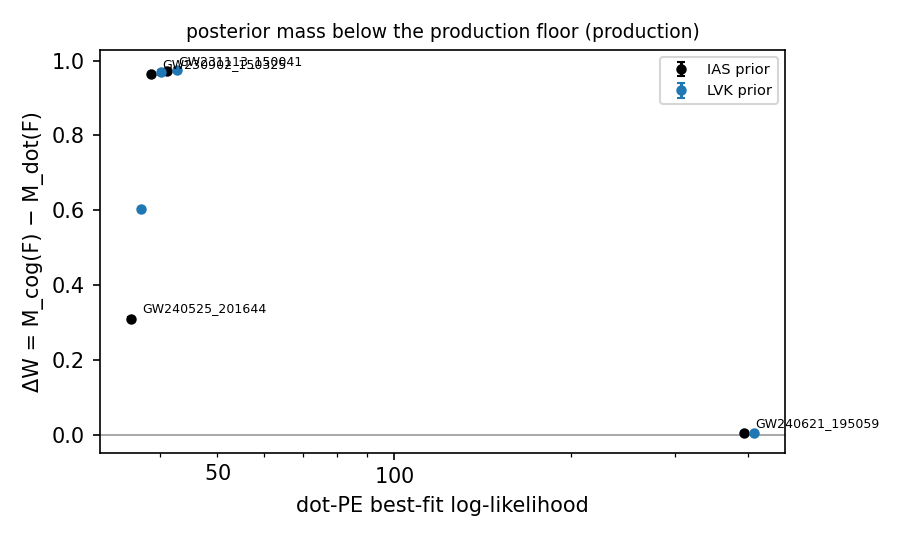
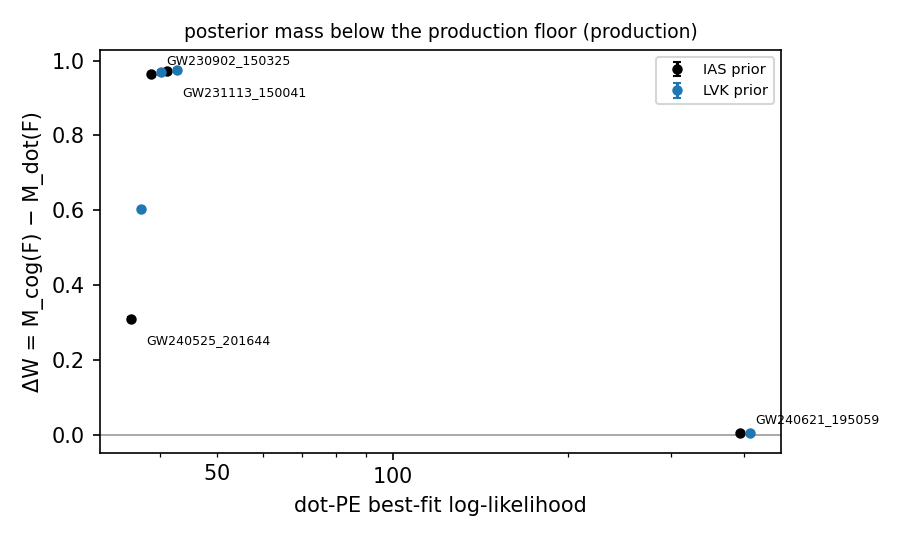
research: E0 report revisions, E2 report draft, E4 code
Claude-Session: https://claude.ai/code/session_015Ha8CowgXaDTZuUXirm2SN

diff --git a/research/row-limit/test_mass_below_floor.py b/research/row-limit/test_mass_below_floor.py
@@ -133,9 +133,9 @@ def figures(df, hist, tag) -> None:
     for prior, c, dx in (("IAS", "k", 0.98), ("LVK", "#1f77b4", 1.02)):
         ax.errorbar(df.dot_best * dx, df[f"dW_{prior}"], df[f"dW_err_{prior}"], fmt="o",
                     color=c, ms=4, capsize=2, label=f"{prior} prior")
-    for r in df.itertuples():
-        ax.annotate(r.event, (r.dot_best, r.dW_IAS), fontsize=6, xytext=(3, 3),
-                    textcoords="offset points")
+    for n, r in enumerate(df.itertuples()):
+        ax.annotate(r.event, (r.dot_best, r.dW_IAS), fontsize=6,
+                    xytext=(5, -12 if n % 2 else 5), textcoords="offset points")
     ax.axhline(0, color="0.6", lw=0.8)
     ax.set_xscale("log")
     ax.set_xlabel("dot-PE best-fit log-likelihood")

diff --git a/research/row-limit/2026-11-22_problem.md b/research/row-limit/2026-11-22_problem.md
@@ -1,58 +1,76 @@
 # Posterior mass removed by dot-PE's row limit
 
 This report tests whether dot-PE's row limit removes posterior mass that an independent sampler,
-cogwheel, finds. dot-PE keeps at most `size_limit` (intrinsic, extrinsic, phase) rows, ranked by
-their distance-maximized log-likelihood. When that limit binds, the reported posterior is cut off
-below the lowest kept value, and at low signal-to-noise ratio that cutoff can lie inside the
-bulk of the posterior.
+cogwheel, finds. dot-PE keeps at most a fixed number of (intrinsic, extrinsic, phase)
+combinations, ranked by their distance-maximized log-likelihood. When that limit binds, the
+reported posterior is cut off below the lowest kept value, and at low signal-to-noise ratio that
+cutoff can lie inside the bulk of the posterior.
 
 Code and data: the test reads production outputs only. The dot-PE runs were made with dot-PE
-2403731 (GW240525_201644 `run_2`) and the commits listed in o4b-pe-paper
-`docs/pe/dot_pe_versions.csv` and o4a-pe-paper `docs/pe/dot_pe_versions.csv`. The test script
-ran on branch `research` (dcfaad4). It supersedes no earlier report; the measurement it repeats
-on four events was first made in
+2403731 (GW240525_201644 `run_2`, its `timing.json`) and the commits listed in o4b-pe-paper and
+o4a-pe-paper `docs/pe/dot_pe_versions.csv`. The test script ran on branch `research` at commit f550319. It
+supersedes no earlier report; its measure repeats, on four events, the one of
 https://github.com/JonathanMushkin/o4b-pe-paper/blob/master/dev/row_limit_check/below_floor.md
+(cited below as "the o4b-pe-paper check").
 
 ## Question and answer
 
 The question: for each test event, what is ΔW, the posterior mass that cogwheel places at a
-distance-maximized log-likelihood below dot-PE's production floor, minus the mass dot-PE places
-there?
+distance-maximized log-likelihood below dot-PE's production floor, minus the posterior mass
+dot-PE places there (all three defined in Setup)?
 
-The answer: under the IAS prior ΔW is 0.004 for the high-SNR control and 0.31, 0.96 and 0.97
-for the three low-SNR test events, each with a noise below 0.005.
+The answer: under the IAS prior (dot-PE's production prior) ΔW is 0.004 for the control, an event
+whose floor lies below nearly all of cogwheel's posterior, and 0.31, 0.96 and 0.97 for the three
+low signal-to-noise-ratio (SNR) test events, each with a binomial standard error (Setup) of at most 0.005.
 
 ## Prediction
 
 The design predicted: "dot-PE's production posterior has no mass below its floor by
 construction, while cogwheel's has W_IAS = 0.31 for GW240525_201644, 0.97 for GW230902_150325
 and 0.97 for GW231113_150041, so ΔW ≈ W. The prediction is disproved if ΔW is within its noise
-of 0 for any of the three low-SNR events." It held: ΔW is 0.31, 0.96 and 0.97 for the three
-events, more than 60 times its noise in each.
+of 0 for any of the three low-SNR events." Here W_IAS and W are the o4b-pe-paper check's names
+for M_cog(F), cogwheel's posterior mass below the floor, under the IAS prior. The prediction
+held: ΔW is 0.31, 0.96 and 0.97 for the three events, more than 60 times its standard error in
+each.
 
 ## Setup
 
-dot-PE scores every (intrinsic, extrinsic, phase) combination of a run, a *row*, and keeps the
-rows whose distance-maximized log-likelihood lies within 20 of the run's best fit, the *nominal
-cut*. On top of that it keeps at most `size_limit` = 1e7 rows, those with the highest
-distance-maximized log-likelihood. Every production run hit that limit. The *floor* F of a run is
-the lowest distance-maximized log-likelihood among its kept rows.
+dot-PE scores every (intrinsic, extrinsic, phase) combination of a run, a *row*. It keeps at
+most `size_limit` = 1e7 rows (`dot_pe/mp_inference.py:600`), those with the highest b defined
+below; all 288 production runs of the two paper repos kept exactly 1e7 rows (o4b-pe-paper
+`dev/row_limit_check/row_limit.csv`, column `rows_kept`).
 
 ### Distance-maximized log-likelihood b
 
-For a template with matched-filter inner products (d|h) and (h|h) at a reference distance,
+For a template with matched-filter inner products (d|h), of data and template, and (h|h), of the
+template with itself, at a reference distance,
 
     b = (d|h)² / (2 (h|h))   if (d|h) > 0,   else 0,
 
 the log-likelihood maximized over luminosity distance. dot-PE stores it per row as
 `bestfit_lnlike` (`dot_pe/thin_coherent.py:258`). For a cogwheel posterior sample it is computed
-from the stored `lnl` = (d|h) − (h|h)/2 and `h_h` = (h|h) at the sample's distance, with
-(d|h) = lnl + h_h/2; the value does not depend on the distance at which the inner products are
-evaluated.
+from the stored `lnl` = (d|h) − (h|h)/2 and `h_h` = (h|h), with (d|h) = lnl + h_h/2; b does not
+depend on the distance at which the inner products are evaluated.
+
+### Best fit and nominal cut
+
+The best fit of a dot-PE run is the largest b over its kept rows, and of a cogwheel run the
+largest b over its samples. dot-PE intends to keep every row with
+
+    b ≥ (best fit) − 20,
+
+the *nominal cut*, 20 in log-likelihood below the best fit (`max_bestfit_lnlike_diff`,
+`dot_pe/mp_inference.py:607`).
+
+### Floor F
+
+    F = min over the run's kept rows of b,
+
+the lowest b dot-PE kept. When `size_limit` binds, F lies above the nominal cut.
 
 ### Mass below the floor M_s(F) and ΔW
 
-For sampler s (dot-PE or cogwheel) with posterior samples of weights w_j,
+For sampler s (dot-PE or cogwheel) with posterior samples j of weights w_j,
 
     M_s(F) = Σ_{j: b_j < F} w_j / Σ_j w_j,
 
@@ -60,90 +78,94 @@ the posterior mass with b below F, and
 
     ΔW = M_cog(F) − M_dot(F).
 
-The noise of ΔW is the binomial standard error of each M, √(M(1 − M)/n_eff), with n_eff the Kish
-effective sample size (Σw)²/Σw², added in quadrature.
+### Standard error of ΔW
+
+With the Kish effective sample size of sampler s,
+
+    n_eff,s = (Σ_j w_j)² / Σ_j w_j²,
+
+the binomial standard error of M_s(F) is σ_s = √(M_s(F) (1 − M_s(F)) / n_eff,s), and
+
+    σ_ΔW = √(σ_cog² + σ_dot²).
 
 ### Priors and samples
 
-Under the IAS prior (dot-PE's production prior) dot-PE's samples are `samples.feather` (1e4
-equally weighted draws) and cogwheel's its production `samples.feather`. Under the LVK prior
-(the LVK spin and distance prior, as implemented in o4b-pe-paper
-`src/o4a_pe_paper/pe_lib/lvk_reweight.py`) dot-PE's samples are `samples_lvc.feather`, and
-cogwheel's are a cogwheel run sampled under the LVK prior where one exists (GW240525_201644) and
-otherwise the production samples reweighted to the LVK prior.
+Under the IAS prior dot-PE's samples are `samples.feather` (1e4 equally weighted draws) and
+cogwheel's its production `samples.feather`. Under the LVK prior (the LVK spin and distance prior,
+as implemented in o4b-pe-paper `src/o4a_pe_paper/pe_lib/lvk_reweight.py`) dot-PE's samples are
+`samples_lvc.feather`, and cogwheel's are a cogwheel run sampled under the LVK prior where one
+exists (GW240525_201644) and otherwise the production samples reweighted to the LVK prior.
 
 ### Events
 
-| event | role | dot-PE run | floor F | dot-PE best fit | cogwheel best fit | offset |
+All columns but the first three are values of b, in log-likelihood.
+
+| event | role | dot-PE run | floor F | dot-PE best fit | cogwheel best fit | offset (dot-PE − cogwheel) |
 |---|---|---|---|---|---|---|
 | GW240621_195059 | control | o4b `run_1` | 385.0 | 401.2 | 401.7 | −0.5 |
 | GW240525_201644 | test | o4b `run_2` | 24.35 | 36.38 | 35.67 | 0.7 |
 | GW230902_150325 | test | o4a `run_2` | 33.21 | 39.34 | 37.49 | 1.8 |
-| GW231113_150041 | test (reported, not counted for E5) | o4a `run_0` | 32.18 | 41.90 | 36.38 | 5.5 |
+| GW231113_150041 | test, not counted toward a fix | o4a `run_0` | 32.18 | 41.90 | 36.38 | 5.5 |
 
-Best fits are the largest b over a run's kept rows (dot-PE) or over the samples (cogwheel);
-the offset is dot-PE's minus cogwheel's, in log-likelihood. The three test events are the
-handoff's acceptance events and were chosen after its results; the control is the event with
-best fit above 200, offset below 2 in magnitude, and the smallest W_IAS above 0 in o4b-pe-paper
-`dev/row_limit_check/below_floor.csv`. F is fixed in `test_mass_below_floor.py` per event, so the
-solution experiment evaluates the same F.
+The three test events were chosen, after the o4b-pe-paper check, as two of the five events with
+the largest M_cog(F) and that check's featured event; the control was chosen by hand, among the six events of that check's table with best fit above 200
+and offset below 2 in magnitude, as the one with the smallest larger value of M_cog(F) under the
+two priors (0.004).
+F is fixed per event in `test_mass_below_floor.py`, so a later run of the same test on fixed
+dot-PE runs evaluates the same F. GW231113_150041 is not counted toward accepting a fix because
+its offset of 5.5 can keep ΔW above 0 under a correct fix.
 
 ## Results
 
-Where do the two posteriors lie in b, relative to the floor and the nominal cut, for the
-control?
+Where does the posterior mass lie in b, the distance-maximized log-likelihood, relative to F and
+the nominal cut, for the control?
 
 ![b histograms, control](review/fig1_b_hist_production.png)
 
-For the high-SNR control both posteriors lie above F = 385.0, and the floor removes nothing that
-cogwheel finds.
+All but 0.004 of cogwheel's posterior lies above F = 385.0, as does all of dot-PE's.
 
-Where do they lie for the three test events?
+Where does it lie for the three test events?
 
 ![b histograms, test events](review/fig2_b_hist_production.png)
 
-For GW240525_201644 about a third of cogwheel's posterior lies between the nominal cut and F;
-for GW230902_150325 and GW231113_150041 nearly all of it does, and dot-PE's posterior is
-confined to b ≥ F.
+For GW240525_201644 about a third of cogwheel's posterior lies below F; for GW230902_150325 and
+GW231113_150041 nearly all of it does, while dot-PE's posterior is confined to b ≥ F.
 
-How large is ΔW across the four events, under each prior?
+How large is ΔW, cogwheel's minus dot-PE's posterior mass below F, across the four events under
+each prior?
 
 ![ΔW per event](review/fig3_dW_production.png)
 
-ΔW per event (noise in parentheses):
+ΔW is 0.004 for the control and 0.31 to 0.97 for the test events under both priors; the error
+bars, σ_ΔW, are smaller than the markers. The values:
 
-| event | ΔW, IAS prior | ΔW, LVK prior |
-|---|---|---|
-| GW240621_195059 | 0.004 (0.001) | 0.004 (0.003) |
-| GW240525_201644 | 0.310 (0.005) | 0.602 (0.004) |
-| GW230902_150325 | 0.964 (0.002) | 0.969 (0.007) |
-| GW231113_150041 | 0.971 (0.002) | 0.974 (0.005) |
+| event | ΔW, IAS prior (σ_ΔW) | ΔW, LVK prior (σ_ΔW) | n_eff,cog, LVK prior |
+|---|---|---|---|
+| GW240621_195059 | 0.004 (0.001) | 0.004 (0.003) | 474 |
+| GW240525_201644 | 0.310 (0.005) | 0.602 (0.004) | 12 467 |
+| GW230902_150325 | 0.964 (0.002) | 0.969 (0.007) | 555 |
+| GW231113_150041 | 0.971 (0.002) | 0.974 (0.005) | 874 |
 
-M_dot(F) is 0 up to the rounding of F (at most 0.002) by construction, since F is the lowest
-kept b; ΔW therefore equals M_cog(F) here.
-
-## Observations after the experiment
-
-Not asked by the question: the nominal cut drawn in the figures is dot-PE's best fit over kept
-rows minus 20, which for GW240525_201644 is 16.38, not the 15.29 of the handoff; the handoff took
-the best fit from `summary_results.json`, whose `bestfit_lnlike_max` is the maximum over the
-posterior draws (`dot_pe/inference.py:1568`), not over the rows (`research/progress.md`,
-2026-11-22 10:27).
+M_dot(F), dot-PE's mass below F, is 0 by construction up to the rounding of F in the events table, so
+ΔW here equals M_cog(F).
 
 ## Limitations
 
-- ΔW measures where in b the posterior mass lies, not whether the parameters within that region
-  are right; a fix could reach ΔW ≈ 0 with wrong weights. E3 tests the weights.
+- ΔW measures where in b (the distance-maximized log-likelihood) the posterior mass lies, not
+  whether the parameter values within that range carry the right weights; a fix could reach
+  ΔW ≈ 0 with wrong weights. The weights are tested in a separate experiment
+  (`research/weight-thinning/`).
 - Cogwheel's and dot-PE's b come from two likelihood implementations; the offsets in the events
-  table bound their disagreement at the best fit. For GW231113_150041 the offset of 5.5 means
-  part of ΔW may come from a different maximum, not from the row limit.
-- The LVK-prior values for three events rest on reweighted cogwheel samples with n_eff of 474
-  to 874.
+  table bound their disagreement at the best fit. For GW231113_150041 part of ΔW may come from a
+  different maximum, not from the row limit.
+- Under the LVK prior three events rest on reweighted cogwheel samples with Kish effective sample
+  sizes n_eff,cog of 474 to 874 (table above).
 
 ## Reproduction
 
     python research/lsf_submit.py --name e0_mass_below_floor --env o4a-pe --mem-mb 8000 \
         -- research/row-limit/test_mass_below_floor.py
 
-Output: `artifacts/research/row-limit/mass_below_floor_production.csv` and the figures in
-`research/row-limit/review/`. LSF jobs 384729 and 390492 (figure range).
+Output: `artifacts/research/row-limit/mass_below_floor_production.csv` (named per run tag, design note of
+2026-11-22 10:40) and the figures in
+`research/row-limit/review/`.

diff --git a/research/sample-headroom/2026-11-22_measurement.md b/research/sample-headroom/2026-11-22_measurement.md
@@ -1,0 +1,83 @@
+# How far fewer templates and fewer extrinsic samples could shrink dot-PE's rows
+
+This report measures how much room the production runs have to use fewer templates or fewer
+extrinsic samples, two ways to put fewer (intrinsic, extrinsic, phase) rows against dot-PE's row
+limit. Both are bounded by the minimum effective sample sizes the analysis demands, so the room
+is the factor by which those effective sample sizes exceed their minima.
+
+Code and data: the script reads the production summaries of the 288 runs in o4b-pe-paper
+`dev/row_limit_check/row_limit.csv` (dot-PE commits as recorded per run in each paper repo's
+`docs/pe/dot_pe_versions.csv`); it ran on branch `research` (dcfaad4 and later). It supersedes no
+report.
+
+## Question and answer
+
+The question: for each production run, what is H, the largest factor by which the rows could be
+reduced by fewer templates and fewer extrinsic samples while n_effective_i ≥ 150 and
+n_effective_e ≥ 100 under both the IAS and LVK priors, if each effective sample size scales in
+proportion to its number of samples?
+
+The answer: H has a median of 3.0 over the 288 runs (quartiles 2.0 and 5.3), and 175 runs
+already fall below one of the two minima, most of them through n_effective_i under the LVK prior.
+
+## Setup
+
+n_effective_i and n_effective_e are the effective numbers of distinct intrinsic samples
+(templates) and of distinct extrinsic samples among a run's weighted rows,
+`get_n_effective_total_i_e` in `dot_pe/base_sampler_free_sampling.py`. The minima, 150 and 100,
+are `MIN_NEFF_I` and `MIN_NEFF_E` of o4b-pe-paper `src/o4a_pe_paper/pe_lib/failure_modes.py`.
+The IAS-prior values are read from each run's `summary_results.json`, the LVK-prior values from
+`summary_results_lvc.json` (present for all 288 runs).
+
+### Headroom ratios h_i and h_e
+
+With p running over the two priors,
+
+    h_i = min_p n_effective_i,p / 150,      h_e = min_p n_effective_e,p / 100.
+
+A run with h_i < 1 or h_e < 1 already fails a minimum.
+
+### Row reduction H
+
+    H = max(1, h_i) × max(1, h_e).
+
+If n_effective_i scales in proportion to the number of templates and n_effective_e to the number
+of extrinsic samples n_ext, using h_i times fewer templates and h_e times fewer extrinsic samples
+reduces the rows by H and leaves both at their minima.
+
+## Results
+
+How much headroom does each run have in n_effective_i and in n_effective_e?
+
+![headroom ratios](review/fig1_headroom_i_e.png)
+
+Of the 288 runs, 163 have h_i < 1 and 25 have h_e < 1 (13 both); in 286 runs the LVK prior gives
+the smaller n_effective_i. GW240525_201644 run_2 has h_i = 1.5 and h_e = 0.98 (n_effective_e 98
+under the LVK prior).
+
+What is H against the best-fit log-likelihood?
+
+![H against best fit](review/fig2_H_vs_best.png)
+
+H is at most 29 (one run); its median is 3.0 over all runs and 4.7 over the 113 runs that pass
+both minima. For GW240525_201644, H = 1.5. The reduction this event needs to reach its nominal
+cut, R = N̂(c) / `size_limit`, comes from E1 (`research/rows-above-cut/`) and is compared here
+once E1 has reported.
+
+## Limitations
+
+- H assumes n_effective_i scales with the number of templates and n_effective_e with n_ext. The
+  one test available contradicts it: GW240525_201644 with the first eighth of each bank had
+  n_effective_i 363 instead of 1535 under the IAS prior (4.2 times lower for 8 times fewer
+  templates) and n_effective_e 329 instead of 262, because the floor moved too
+  (o4b-pe-paper `dev/row_limit_check/gw240525_runs.md`).
+- H multiplies h_i and h_e as if independent; the same test shows they are not.
+- The x-axis of figure 2 is `bestfit_lnlike_max` of `summary_results.json`, the maximum over the
+  1e4 posterior draws, which is below the best fit over rows; it only orders runs by
+  signal-to-noise ratio.
+
+## Reproduction
+
+    python research/sample-headroom/headroom.py     # env o4a-pe, login node, seconds
+
+Output: `artifacts/research/sample-headroom/headroom.csv` and `research/sample-headroom/review/`.

diff --git a/research/progress.md b/research/progress.md
@@ -23,3 +23,5 @@ One row per decision, design approval, gate outcome or LSF job. Times are local 
 | 2026-11-22 10:37 | log fix | Timestamps of five earlier rows corrected to the clock (they had been written ahead of it). |
 | 2026-11-22 10:37 | E4 design | `phase-marginalization/design.md` reviewed: no blocking findings, 6 minor, all applied; approved. |
 | 2026-11-22 10:38 | LSF 390492 done | E0 rerun: 364 s, exit 0; numbers identical to 384729; figures replaced. E0 problem report drafted, sent to the two report reviewers. |
+| 2026-11-22 10:40 | LSF 395074 | E0 rerun for figure 3 label offsets (design note 10:40). E0 report revised after both report reviewers (FIX: 13 and 12 items); re-review follows. |
+| 2026-11-22 10:48 | LSF 395074 done; E0 report | Figure 3 regenerated (labels offset; numbers identical). Report re-check: reviewer 1 FIX (commit hash, output name, SNR, rounding), reviewer 2 FIX (the stated control-selection rule picks GW240615_113620, not the control used). Fixed; design note 10:48 corrects the control's description (chosen by hand as the smallest larger of W_IAS and W_LVK among the six events with best fit > 200 and offset < 2). |

diff --git a/research/row-limit/design.md b/research/row-limit/design.md
@@ -117,3 +117,17 @@ runs are fixed in the script. It is run in conda env `o4a-pe` (it imports o4b-pe
 reweighting). It reads about 10 posterior files; it runs as one LSF job on the `analysis`
 profile (1 core, 8000 MB). Output: `artifacts/research/row-limit/mass_below_floor.csv`, and the
 figures under `review/`.
+
+## Design note, 2026-11-22 10:40 (after the first results)
+
+The output file is `mass_below_floor_<tag>.csv` (tag `production` for the problem run, a new tag
+for the solution run), not `mass_below_floor.csv`; figure 3 labels were offset so that event names
+do not overlap. Neither change affects any number.
+
+## Design note, 2026-11-22 10:48 (correction of the control's description)
+
+The control's selection rule written under "Event choice" ("best fit > 200, |offset| < 2 and the
+smallest W_IAS above 0") does not pick GW240621_195059; it picks GW240615_113620 (W_IAS 0.003,
+W_LVK 0.025). GW240621_195059 was chosen by hand from the six events with best fit > 200 and
+|offset| < 2 as the one whose larger of W_IAS and W_LVK is smallest (0.004). The event is
+unchanged; only its description is corrected.
